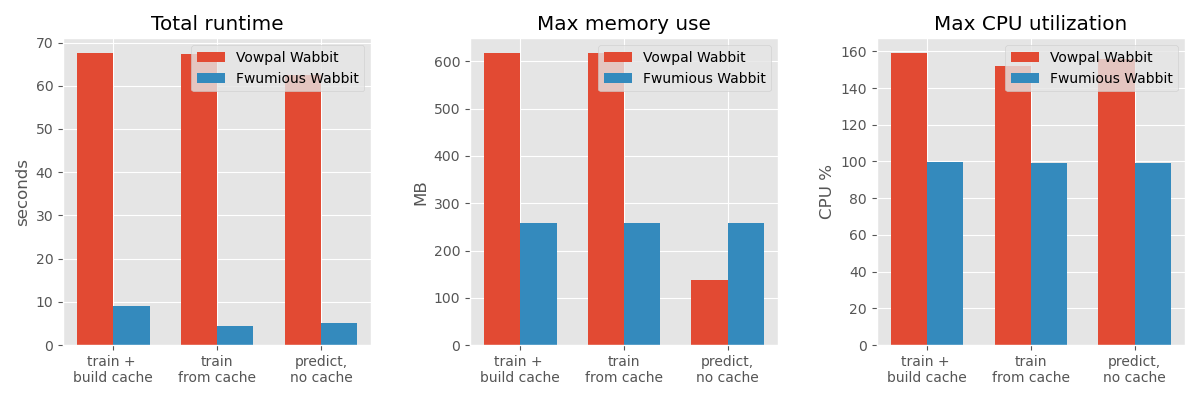
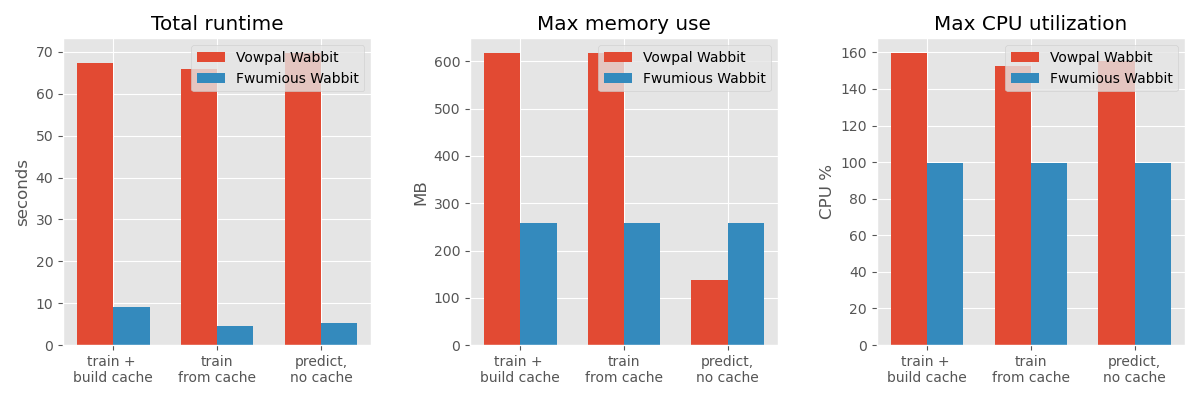
latest and greatest, with prerequisites section

diff --git a/benchmark/benchmark.py b/benchmark/benchmark.py
@@ -182,7 +182,19 @@ if __name__ == "__main__":
     with open("README.md", "w") as readme:
         readme.write("")  # clear file
         sys.stdout = readme
-        print("## Setup\n")
+        print("## Prerequisites and running")
+        print("you should have Vowpal Wabbit installed, as the benchmark invokes it via the 'vw' command.")
+        print("additionally the rust compiler is required in order to build Fwumious Wabbit (using './target/release/fw') ")
+        print("in order to build and run the benchmark use one of these bash scripts:")
+        print("```")
+        print("./run_with_plots.sh")
+        print("```")
+        print("in order to run the benchmark and plot the results (requires matplotlib, last used with version 2.1.2)")
+        print("\nor, if you just want the numbers with less dependencies run:")
+        print("```")
+        print("./run_without_plots.sh")
+        print("```\n")
+        print("## Latest run setup\n")
 
         print_system_info()
 
@@ -206,15 +218,16 @@ if __name__ == "__main__":
             feature_variety = 1000
 
             print("### Dataset details")
-            print(f"we generate a synthetic dataset with {train_examples} train records ('train.vw'), and {test_examples} test records ('easy.vw').\n")
+            print(f"we generate a synthetic dataset with {train_examples:,} train records ('train.vw'), and {test_examples:,} test records ('easy.vw').\n")
             print("the task is 'Eat-Rate prediction' - each record describes the observed result of a single feeding experiment.\n")
             print("each record is made of a type of animal, a type of food, and a label indicating whether the animal ate the food.\n")
-            print("the underlying model is simple - animals are either herbivores or carnivores - regardless of specific animal name,")
-            print("and food is either plant based or meat based regardless of it's identity.")
+            print("the underlying model is simple - animals are either herbivores or carnivores,")
+            print("and food is either plant based or meat based.")
             print("herbivores always eat plants (and only plants), and carnivores always eat meat (and only meat).\n")
-            print("for convenience reasons, we name the animals 'Herbivore-1234' and 'Carnivore-5678', and the food items 'Plant-678'")
-            print(" and 'Meat-234' so the expected outcome for a record is always clear.\n")
-            print(f"there are {feature_variety} animal types, and {feature_variety} food types.")
+            print("we name animals conveniently using the pattern 'diet-id', for example 'Herbivore-1234' and 'Carnivore-5678',")
+            print("and the food similarly as 'food_type-id' - for example 'Plant-678'")
+            print(" and 'Meat-234' so the expected label for a record is always obvious.\n")
+            print(f"there are {feature_variety:,} animal types, and {feature_variety:,} food types.")
             print("\n")
 
             generate.generate(train_examples, test_examples, feature_variety)
@@ -227,7 +240,7 @@ if __name__ == "__main__":
                 print("\n")
             gzip_file("train.vw")
 
-        times = 1
+        times = 3
         actions = []
         vw_time_values = []
         vw_mem_values = []
@@ -352,7 +365,7 @@ if __name__ == "__main__":
             print("with records which belong to {(A1 U A2, F1)} U {(A1, F1 U F2}).\n")
             print("the test set we use here, 'hard.vw', is different: it contains exclusively records from {(A2, F2)} - combinations unseen in the train set.\n")
             print("In order for a model to make correct predictions on this dataset after training on the train dataset, ")
-            print("it should capture some of the latent model - in the FFM case by generalizing from seen combinations to unseen ones.")
+            print("it must be able to generalize for unseen combinations.")
 
             fw_hard_ffm_time_values = []
             fw_hard_ffm_mem_values = []
@@ -387,7 +400,6 @@ if __name__ == "__main__":
 
             fw_model_loss = calc_loss("fw_hard_preds.out", "hard.vw")
             fw_ffm_model_loss = calc_loss("fw_ffm_hard_preds.out", "hard.vw")
-
 
             print("### Loss on the test set")
             print("```")

diff --git a/benchmark/measure.py b/benchmark/measure.py
@@ -47,8 +47,15 @@ def measure(cmd, proc_name):
 
 def get_model_process(cmdp, proc_name):
     psp = None
+    tries = 20
     while True:
-        psutil.wait_procs([psutil.Process(cmdp.pid)], timeout=0.05)
+        if tries == 0:
+            raise Exception(f"can't proceed, the process '{proc_name}' was not found")
+        tries = tries - 1
+        try:
+            psutil.wait_procs([psutil.Process(cmdp.pid)], timeout=0.05)
+        except psutil.NoSuchProcess:
+            pass
         for proc in psutil.process_iter(['pid', 'name', 'username']):
             if proc.name() == proc_name:
                 psp = psutil.Process(proc.pid)

diff --git a/benchmark/generate.py b/benchmark/generate.py
@@ -13,7 +13,6 @@ def get_score(a, b):
 
 def render_example(a, b):
     score = get_score(a, b)
-    #    print(a,b)
     return " ".join([str(score), u"|A", a[0] + u"-" + str(a[1]), u"|B", b[0] + u"-" + str(b[1])]) + "\n"
 
 

diff --git a/benchmark/README.md b/benchmark/README.md
@@ -1,4 +1,18 @@
-## Setup
+## Prerequisites and running
+you should have Vowpal Wabbit installed, as the benchmark invokes it via the 'vw' command.
+additionally the rust compiler is required in order to build Fwumious Wabbit (using './target/release/fw') 
+in order to build and run the benchmark use one of these bash scripts:
+```
+./run_with_plots.sh
+```
+in order to run the benchmark and plot the results (requires matplotlib, last used with version 2.1.2)
+
+or, if you just want the numbers with less dependencies run:
+```
+./run_without_plots.sh
+```
+
+## Latest run setup
 
 ### CPU Info
 ```
@@ -14,30 +28,31 @@ Machine: x86_64
 Processor: i386
 ```
 ### Dataset details
-we generate a synthetic dataset with 10000000 train records ('train.vw'), and 10000000 test records ('easy.vw').
+we generate a synthetic dataset with 10,000,000 train records ('train.vw'), and 10,000,000 test records ('easy.vw').
 
 the task is 'Eat-Rate prediction' - each record describes the observed result of a single feeding experiment.
 
 each record is made of a type of animal, a type of food, and a label indicating whether the animal ate the food.
 
-the underlying model is simple - animals are either herbivores or carnivores - regardless of specific animal name,
-and food is either plant based or meat based regardless of it's identity.
+the underlying model is simple - animals are either herbivores or carnivores,
+and food is either plant based or meat based.
 herbivores always eat plants (and only plants), and carnivores always eat meat (and only meat).
 
-for convenience reasons, we name the animals 'Herbivore-1234' and 'Carnivore-5678', and the food items 'Plant-678'
- and 'Meat-234' so the expected outcome for a record is always clear.
+we name animals conveniently using the pattern 'diet-id', for example 'Herbivore-1234' and 'Carnivore-5678',
+and the food similarly as 'food_type-id' - for example 'Plant-678'
+ and 'Meat-234' so the expected label for a record is always obvious.
 
-there are 1000 animal types, and 1000 food types.
+there are 1,000 animal types, and 1,000 food types.
 
 
 see for example the first 5 lines from the train dataset (after some pretty-printing):
 label|animal|food
 -----|------|----
--1 |A Herbivore-448 |B Meat-159
--1 |A Carnivore-113 |B Plant-747
-1 |A Herbivore-848 |B Plant-14
--1 |A Carnivore-683 |B Plant-140
--1 |A Carnivore-797 |B Plant-135
+1 |A Herbivore-708 |B Plant-43
+1 |A Herbivore-588 |B Plant-107
+-1 |A Herbivore-134 |B Meat-33
+1 |A Carnivore-567 |B Meat-161
+1 |A Carnivore-206 |B Meat-607
 
 
 ## Results
@@ -64,19 +79,19 @@ here are the results for 1 runs for each scenario, taking mean values:
 ![benchmark results](benchmark_results.png)
 Scenario|Runtime (seconds)|Memory (MB)|CPU %
 ----|----|----|----
-vw train, no cache|67.59 | 618 | 159.10
-fw train, no cache|9.15 | 258 | 99.70
-vw train, using cache|67.30 | 618 | 151.90
-fw train, using cache|4.40 | 258 | 99.30
-vw predict, no cache|62.58 | 138 | 155.90
-fw predict, no cache|5.16 | 257 | 99.30
+vw train, no cache|67.35 | 618 | 159.70
+fw train, no cache|9.13 | 258 | 99.70
+vw train, using cache|65.98 | 618 | 152.40
+fw train, using cache|4.46 | 258 | 99.50
+vw predict, no cache|69.75 | 138 | 155.10
+fw predict, no cache|5.35 | 257 | 99.50
 
 
 ### Model equivalence
 see here the loss value calculated over the test predictions for the tested models:
 ```
-Vowpal Wabbit predictions loss: 0.5736677529629742
-Fwumious Wabbit predictions loss: 0.5637425141029745
+Vowpal Wabbit predictions loss: 0.5745
+Fwumious Wabbit predictions loss: 0.5646
 ```
 
 
@@ -95,10 +110,10 @@ with records which belong to {(A1 U A2, F1)} U {(A1, F1 U F2}).
 the test set we use here, 'hard.vw', is different: it contains exclusively records from {(A2, F2)} - combinations unseen in the train set.
 
 In order for a model to make correct predictions on this dataset after training on the train dataset, 
-it should capture some of the latent model - in the FFM case by generalizing from seen combinations to unseen ones.
+it must be able to generalize for unseen combinations.
 we skip the latency, memory and CPU comparison as for this synthetic dataset the difference is negligible.
 ### Loss on the test set
 ```
-Fwumious Wabbit Logistic Regression predictions loss: 0.6939029475279029
-Fwumious Wabbit FFM predictions loss: 0.20272637268160207
+Fwumious Wabbit Logistic Regression predictions loss: 0.6948
+Fwumious Wabbit FFM predictions loss: 0.2027
 ```
